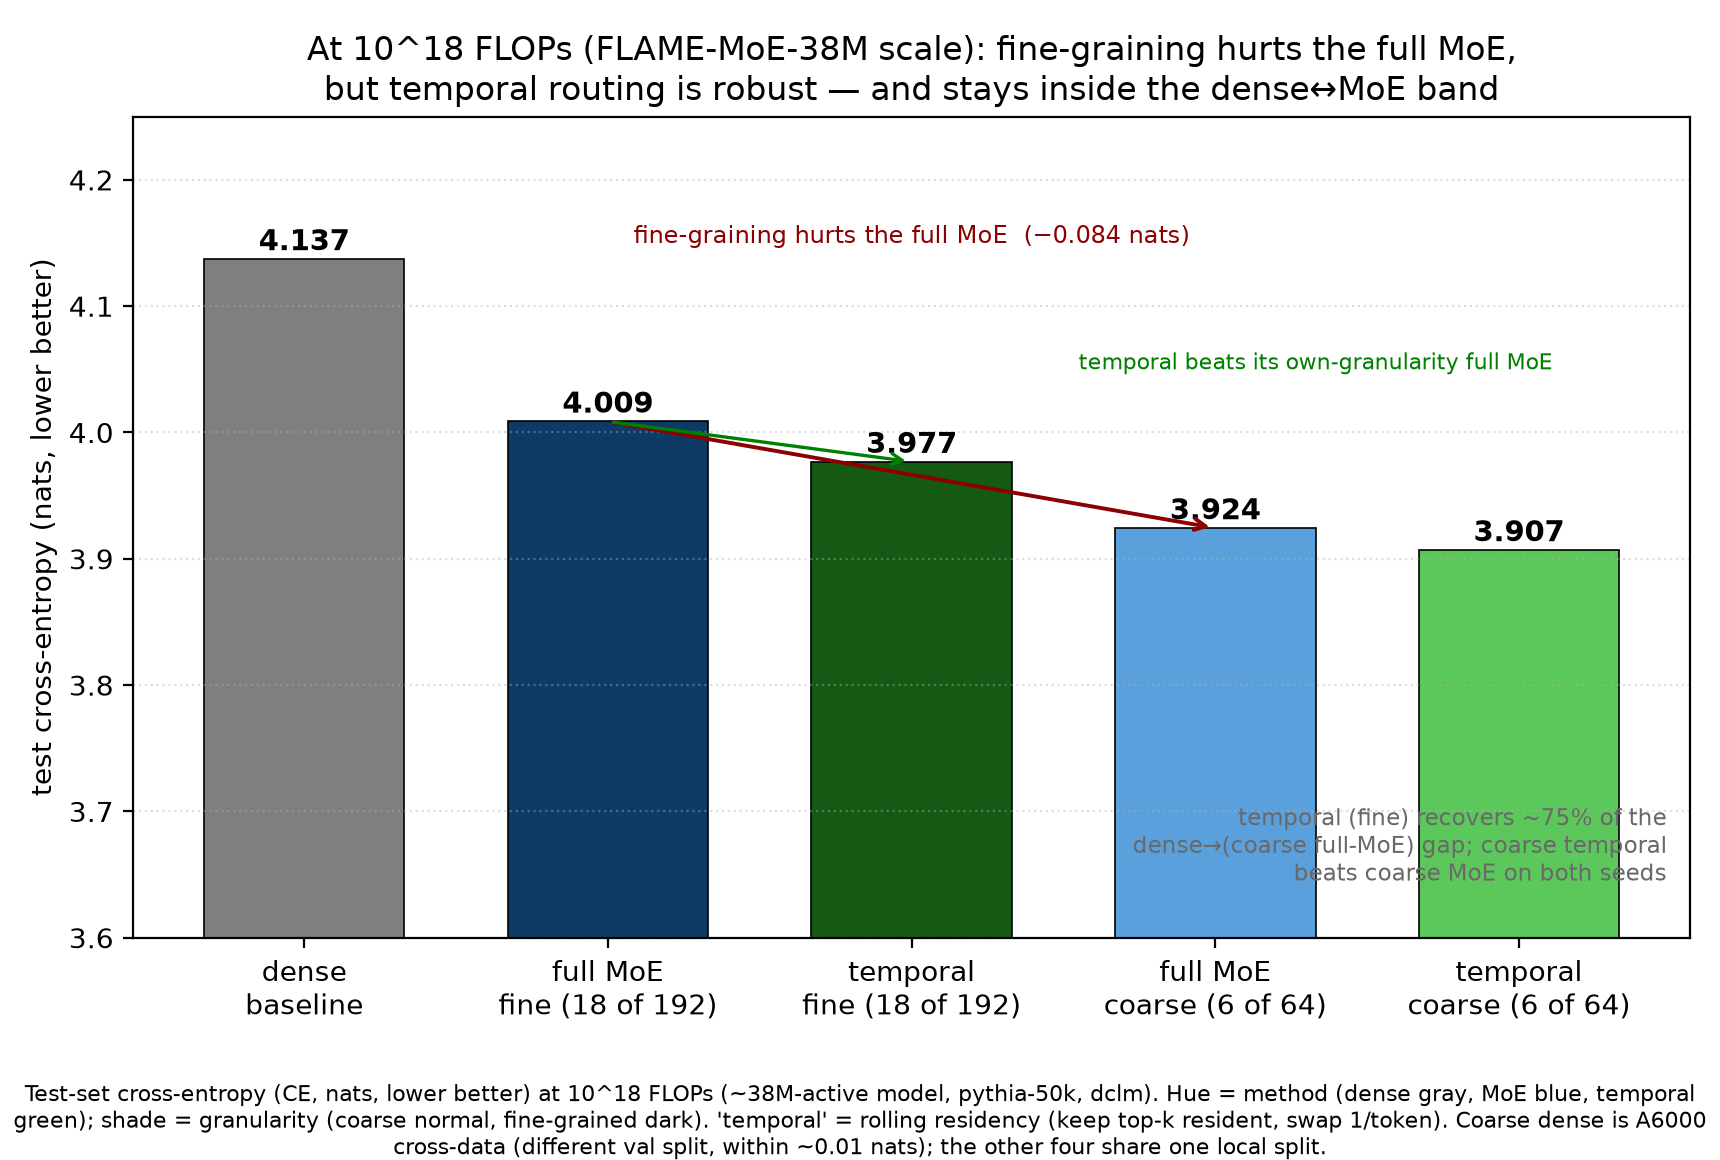
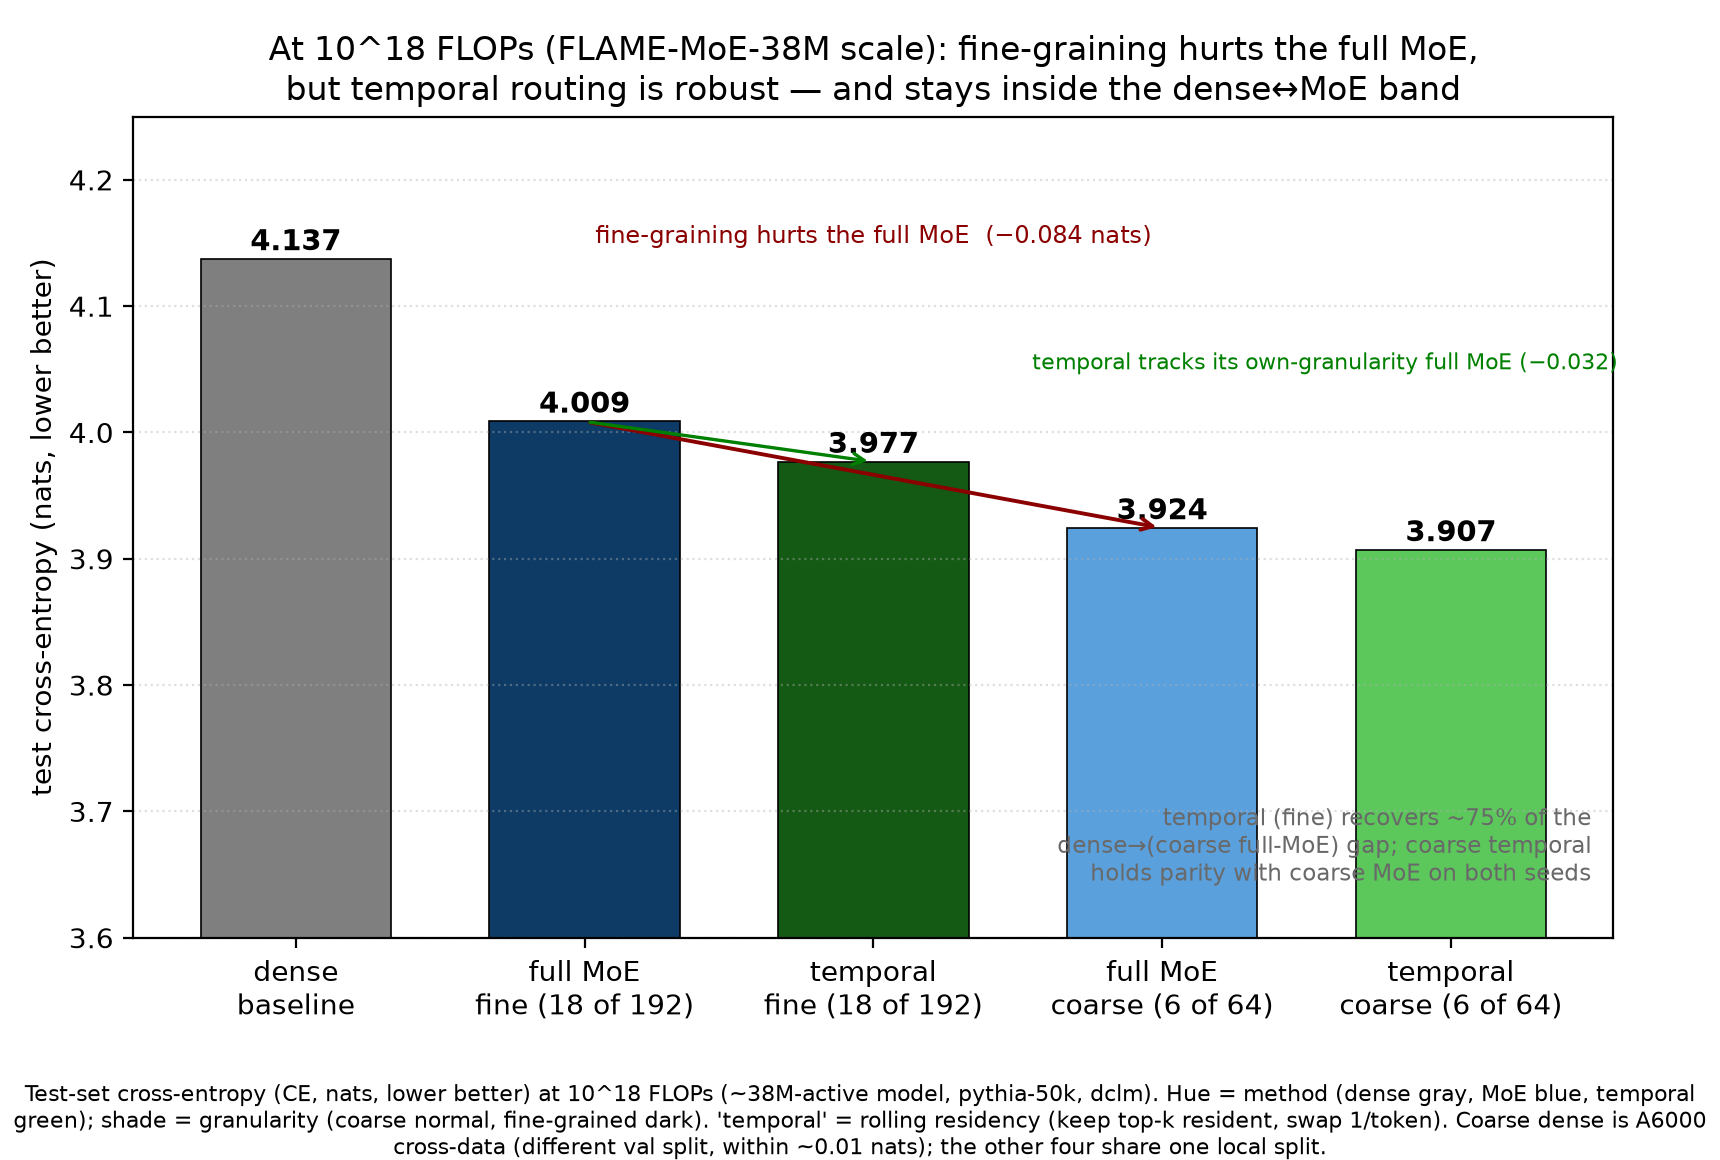
Hygiene: parity/delta framing for temporal-vs-full-MoE across repo artifacts
Same rule as the paper (single-experiment results never stated as 'beats'):
- FINDINGS section 7: 'lands 0.032 below ... in this panel (single-budget
  observation, not a general claim)'.
- flame192_leftflank_1e18.csv notes: '0.0xx nats below ... in this cell
  (single seed)' (note field only, values untouched).
- plot_1e18/plot_1e19 captioned-figure annotations: 'tracks'/'holds parity'/
  'edges out'; figures regenerated.
Temporal-vs-DENSE, MoE-vs-dense, MoE-vs-MoE (fine-graining penalty), and
policy-vs-policy comparisons are multi-supported and unchanged.

diff --git a/analysis/plots/plot_1e18.py b/analysis/plots/plot_1e18.py
@@ -57,12 +57,12 @@ else:
     ax.annotate("", xy=(3, 3.9243), xytext=(1, 4.0087),
                 arrowprops=dict(arrowstyle="->", color="darkred", lw=1.4))
     ax.text(2.0, 4.15, "fine-graining hurts the full MoE  (−0.084 nats)", ha="center", fontsize=8.5, color="darkred")
-    # finding 2: temporal (fine) beats its own-granularity full MoE
+    # finding 2: temporal (fine) tracks its own-granularity full MoE (single-budget delta)
     ax.annotate("", xy=(2, 3.9768), xytext=(1, 4.0087),
                 arrowprops=dict(arrowstyle="->", color="green", lw=1.2))
-    ax.text(2.55, 4.05, "temporal beats its own-granularity full MoE", ha="left", fontsize=8, color="green")
+    ax.text(2.55, 4.05, "temporal tracks its own-granularity full MoE (\u22120.032)", ha="left", fontsize=8, color="green")
     rec = (4.1373 - 3.9768) / (4.1373 - 3.9243) * 100
-    ax.text(0.985, 0.06, f"temporal (fine) recovers ~{rec:.0f}% of the\ndense→(coarse full-MoE) gap; coarse temporal\nbeats coarse MoE on both seeds",
+    ax.text(0.985, 0.06, f"temporal (fine) recovers ~{rec:.0f}% of the\ndense→(coarse full-MoE) gap; coarse temporal\nholds parity with coarse MoE on both seeds",
             transform=ax.transAxes, ha="right", va="bottom", fontsize=8.3, color="dimgray")
     ax.set_ylim(3.6, 4.25)
     ax.set_ylabel("test cross-entropy (nats, lower better)")

diff --git a/analysis/plots/plot_1e19.py b/analysis/plots/plot_1e19.py
@@ -46,7 +46,7 @@ else:
     rec_coarse = (3.3532 - 3.1806) / (3.3532 - 3.1310) * 100
     rec_fine   = (3.3532 - 3.1732) / (3.3532 - 3.1310) * 100
     ax.text(0.985, 0.06, f"temporal recovers ~{rec_coarse:.0f}% (coarse) / ~{rec_fine:.0f}% (fine) of the\n"
-            "dense→MoE gap; fine-grained temporal now BEATS coarse\n"
+            "dense→MoE gap; fine-grained temporal now edges out coarse\n"
             "temporal (crossover — reversed from 10^18)",
             transform=ax.transAxes, ha="right", va="bottom", fontsize=8.3, color="dimgray")
     ax.set_ylim(3.0, 3.45)

diff --git a/results/ablations/FINDINGS.md b/results/ablations/FINDINGS.md
@@ -216,8 +216,9 @@ Two clean findings:
 1. **Fine-graining HURTS the full MoE at 1e18** — coarse MoE-G1 (3.918) beats fine MoE-G3 (4.009)
    by 0.090 nats: 192 experts is over-fine for 4.45B tokens (experts undertrained). Opposite of
    1e16/1e17, where the coarse MoE is *also* token-starved, hiding the effect.
-2. **Temporal is robust to over-fine-graining** — temporal-G3 (3.977) beats its own-granularity
-   full MoE (4.009) by 0.032 (train loss agrees: 3.975 vs 4.011): rolling residency concentrates each span on a
+2. **Temporal is robust to over-fine-graining** — temporal-G3 (3.977) lands 0.032 below its
+   own-granularity full MoE (4.009) in this panel (train loss agrees: 3.975 vs 4.011; a
+   single-budget observation, not a general claim): rolling residency concentrates each span on a
    small resident set, so those experts see more tokens and train better than the full MoE's
    thinly-spread 192. Against the true MoE quality (G1 3.918) and the dense floor (4.137),
    temporal-G3 recovers **~73%** — consistent with the ~66–77% at 1e16/1e17.
